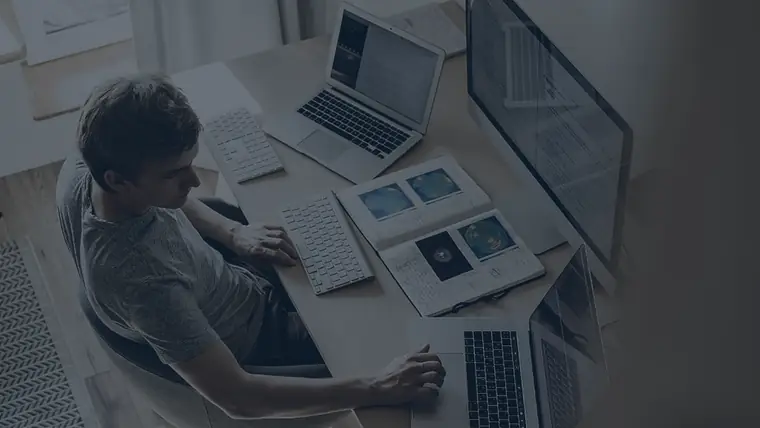
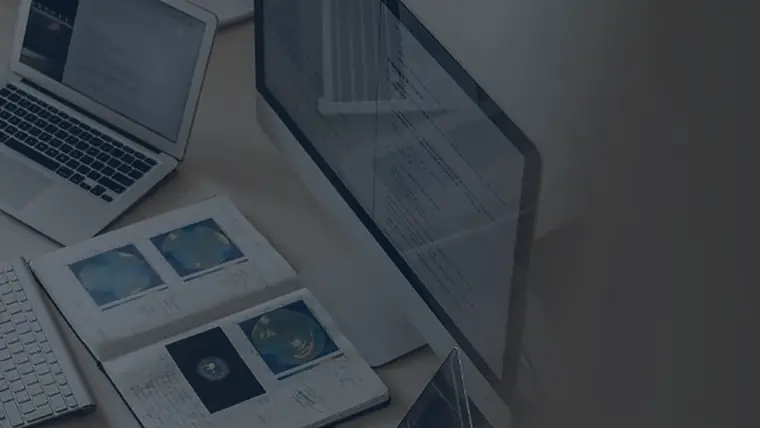
Reenquadra as capas do blog por tema, sem rosto e sem roupa importada

diff --git a/scripts/gerar-capas.py b/scripts/gerar-capas.py
@@ -1,0 +1,65 @@
+# Gera as capas do blog a partir das fotos de public/hero/.
+# Cada artigo tem um enquadramento proprio: sem rosto e sem roupa de frio,
+# so o assunto. Depois aplica o tratamento navy do site (a luminancia e
+# nivelada pela faixa-obra, para as capas formarem um conjunto so).
+#
+# Para um artigo novo: acrescente o slug em MAPA e rode  python3 scripts/gerar-capas.py
+# Precisa de Pillow e numpy.
+
+from PIL import Image, ImageEnhance, ImageFilter
+import numpy as np, os, sys
+
+# tema -> foto + enquadramento. Nenhum rosto, nenhuma roupa de frio: so o assunto.
+MAPA = {
+ 'o-que-e-seguro-garantia':                 ('handshake',    {'foco':0.40}),
+ 'garantia-de-proposta-lei-14133':          ('blueprint',    {'foco':0.42}),
+ 'garantia-adicional-lei-14133':            ('calc',         {'foco':0.10}),
+ 'garantia-de-execucao-contrato-lei-14133': ('construction', {'box':(0.00,0.30,0.55,0.92),'foco':0.50}),
+ 'seguro-garantia-contratos-privados':      ('cleaner',      {'foco':0.34}),
+ 'seguro-garantia-judicial':                ('justice',      {'foco':0.42}),
+ 'seguro-garantia-judicial-trabalhista':    ('justice',      {'foco':0.72}),
+ 'seguro-garantia-deposito-recursal':       ('bridge',       {'foco':0.32}),
+ 'seguro-garantia-negado-limite-de-credito':('office',       {'box':(0.42,0.08,1.00,0.70),'foco':0.50}),
+ 'seguro-garantia-vs-caucao-fianca':        ('calc',         {'foco':0.62}),
+}
+NAVY  = np.array([18, 40, 63], dtype=np.float32)
+PESOS = np.array([.299, .587, .114], dtype=np.float32)
+W, H  = 1000, 563
+ALVO  = float((np.asarray(Image.open('public/faixa-obra.webp').convert('RGB'), np.float32) @ PESOS).mean())
+
+def enquadra(im, cfg, alvo=16/9):
+    if 'box' in cfg:
+        a,b,c,d = cfg['box']; w,h = im.size
+        im = im.crop((int(a*w), int(b*h), int(c*w), int(d*h)))
+    foco = cfg.get('foco', 0.40)
+    w, h = im.size
+    if w/h > alvo:
+        nw = int(h*alvo); return im.crop(((w-nw)//2, 0, (w-nw)//2+nw, h))
+    nh = int(w/alvo); t = int((h-nh)*foco)
+    return im.crop((0, t, w, t+nh))
+
+def trata(im, upscale):
+    if upscale > 1.15:
+        im = im.filter(ImageFilter.UnsharpMask(radius=1.1, percent=85, threshold=3))
+    im = ImageEnhance.Color(im).enhance(0.60)
+    im = ImageEnhance.Contrast(im).enhance(1.05)
+    a = np.asarray(im, dtype=np.float32)
+    a = np.clip(a * np.clip(ALVO/float((a @ PESOS).mean()), 0.55, 1.25), 0, 255)
+    lum = np.clip((a @ PESOS)[:, :, None], 0.0, 255.0)
+    k = np.clip(0.12 + np.power((255.0-lum)/255.0, 1.15)*0.50, 0, 0.62)
+    a = a*(1-k) + NAVY*k
+    assert np.isfinite(a).all()
+    return Image.fromarray(np.clip(a, 0, 255).astype(np.uint8))
+
+if __name__ == '__main__':
+    os.makedirs('public/blog/capas', exist_ok=True)
+    total = 0
+    for slug, (foto, cfg) in MAPA.items():
+        im = enquadra(Image.open(f'public/hero/hero-{foto}.webp').convert('RGB'), cfg)
+        up = W/im.width
+        out = trata(im.resize((W, H), Image.LANCZOS), up)
+        out.save(f'public/blog/capas/{slug}.webp', 'WEBP', quality=80, method=6)
+        out.resize((760, 428), Image.LANCZOS).save(f'public/blog/capas/{slug}-card.webp', 'WEBP', quality=73, method=6)
+        total += os.path.getsize(f'public/blog/capas/{slug}-card.webp')
+        print(f'{slug:42s} {foto:13s} nativo {im.width:4d}px  upscale {up:.2f}x')
+    print(f'\nlistagem: {total//1024}KB')
